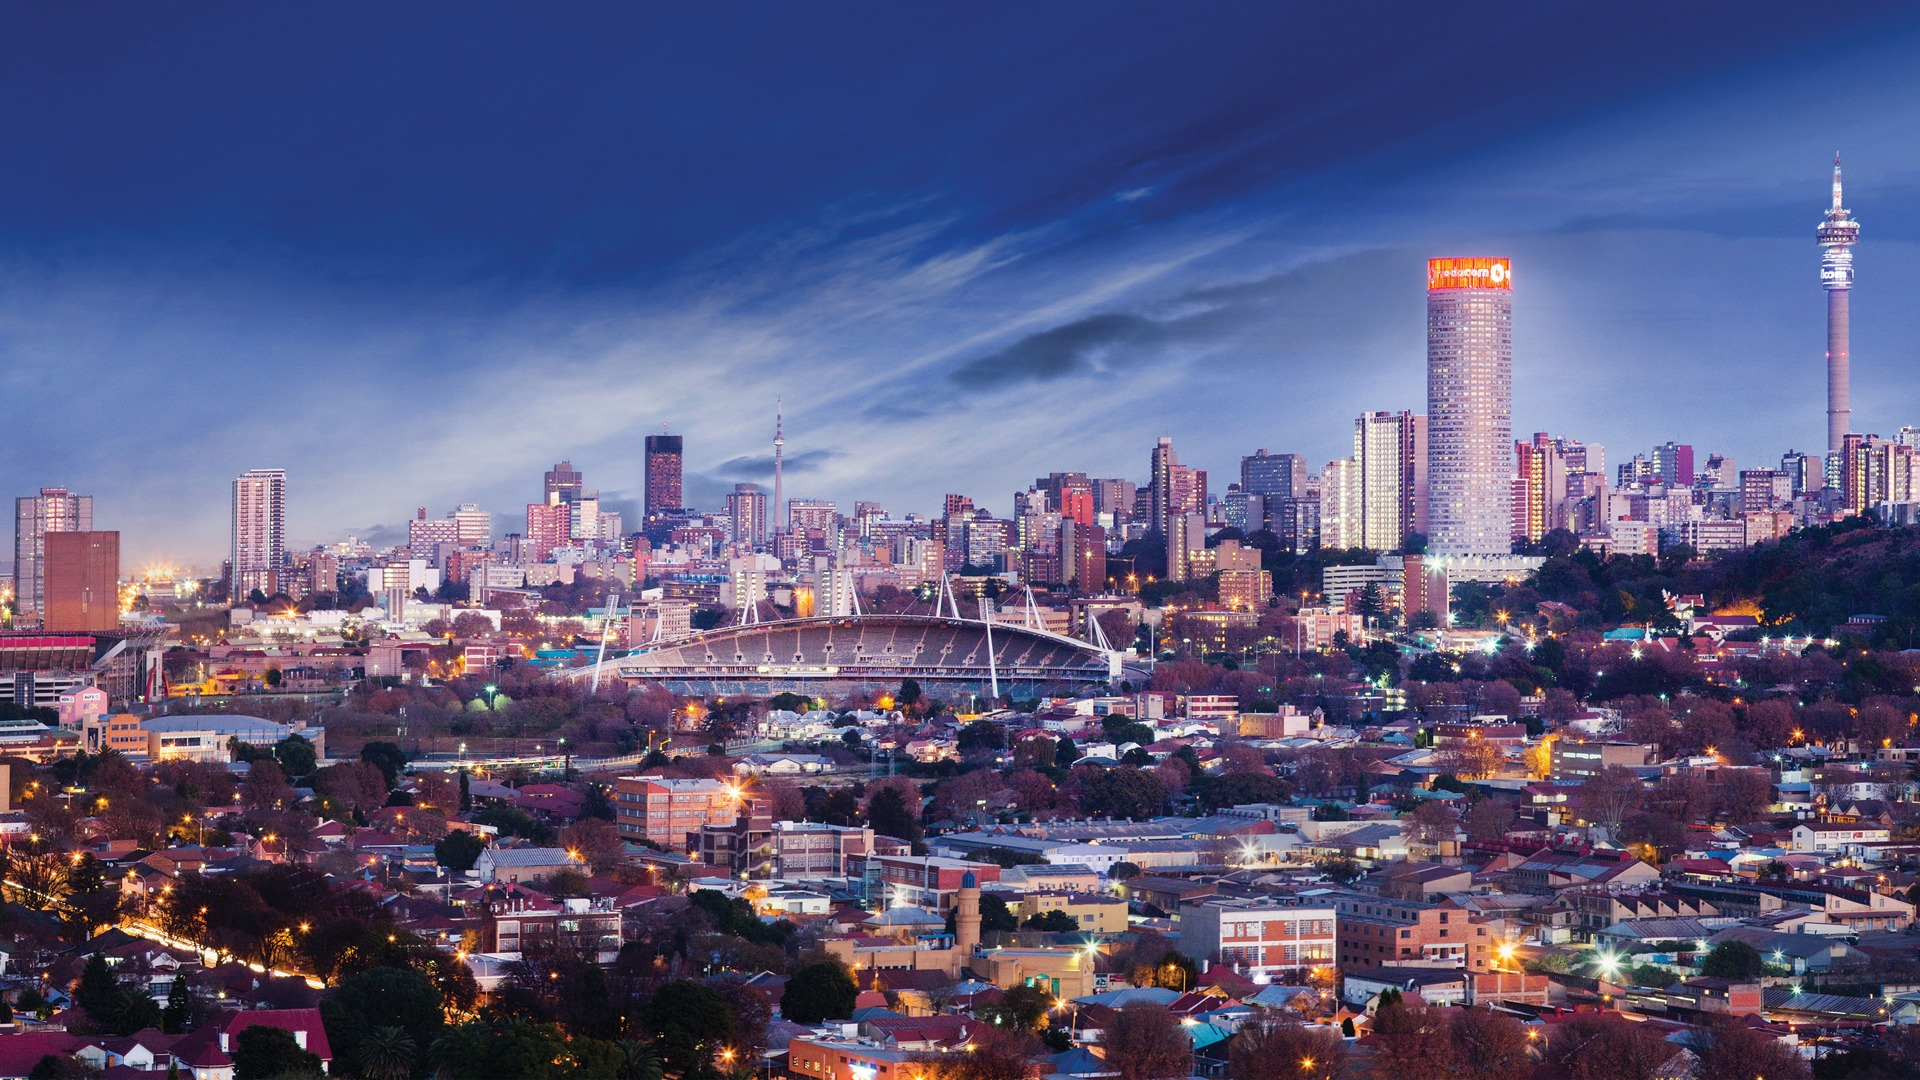
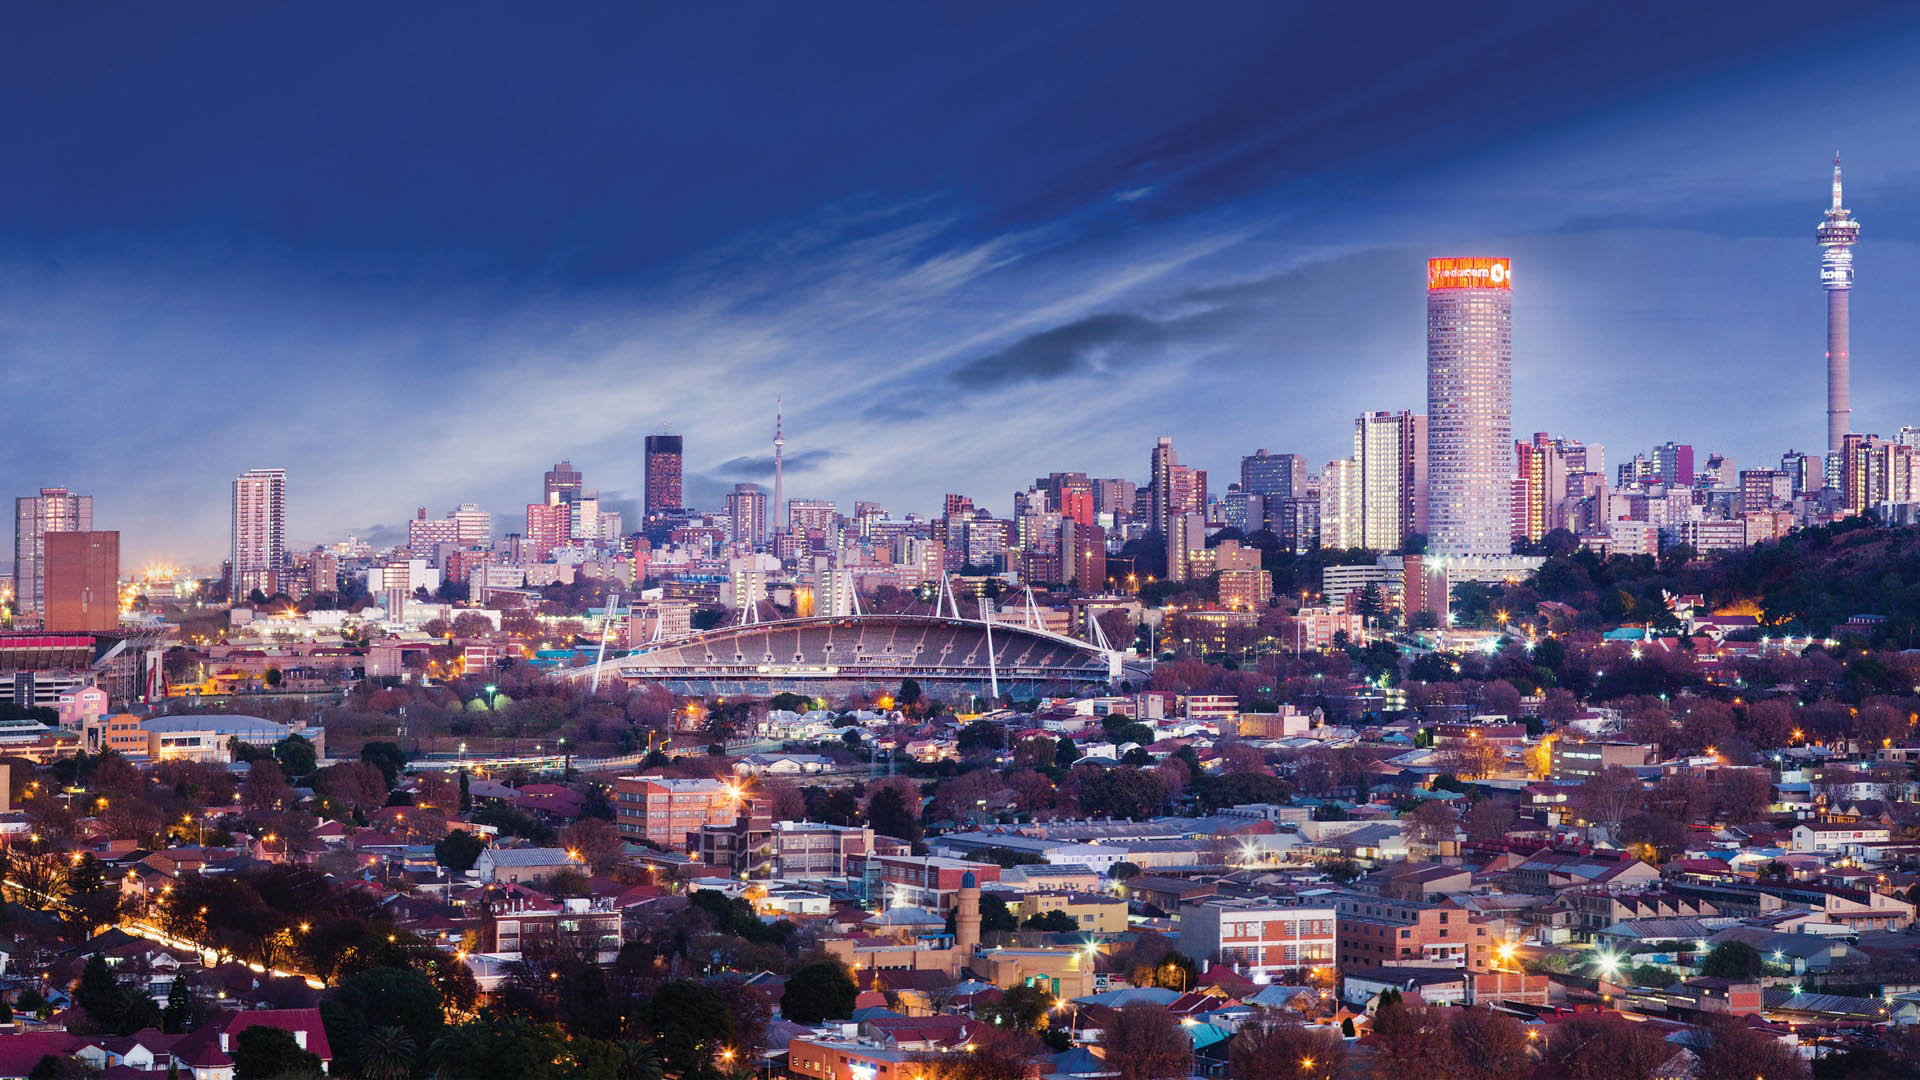
Last Changes I Promise
Correcetd Alt Image Text and reduced image file size.

diff --git a/index.html b/index.html
@@ -16,7 +16,7 @@
     </div>
 
     <header>
-      <img src="images/Me.jpeg" alt="WallyKazam Jumping for Joy" class="profile-image">
+      <img src="images/Me.jpeg" alt="A Picture of David Braun" class="profile-image">
       <h1 class="tag name">Hello, David Braun.</h1>
       <p class="tag location">I am From Johannesburg, South Africa.</p>
       <p class="tag location">Lekker Bru.</p>

diff --git a/Hobbies.html b/Hobbies.html
@@ -17,7 +17,7 @@
  </div>
  <!-- My hobbies -->
  <header>
-  <img src="images/BBQ.jpg" alt="WallyKazam Jumping for Joy" class="profile-image">
+  <img src="images/BBQ.jpg" alt="Barbeque" class="profile-image">
   <h1 class="tag name">Hobbies.</h1>
   <p class="tag location">Cooking.</p>
   <p class="tag location">Photography.</p>
